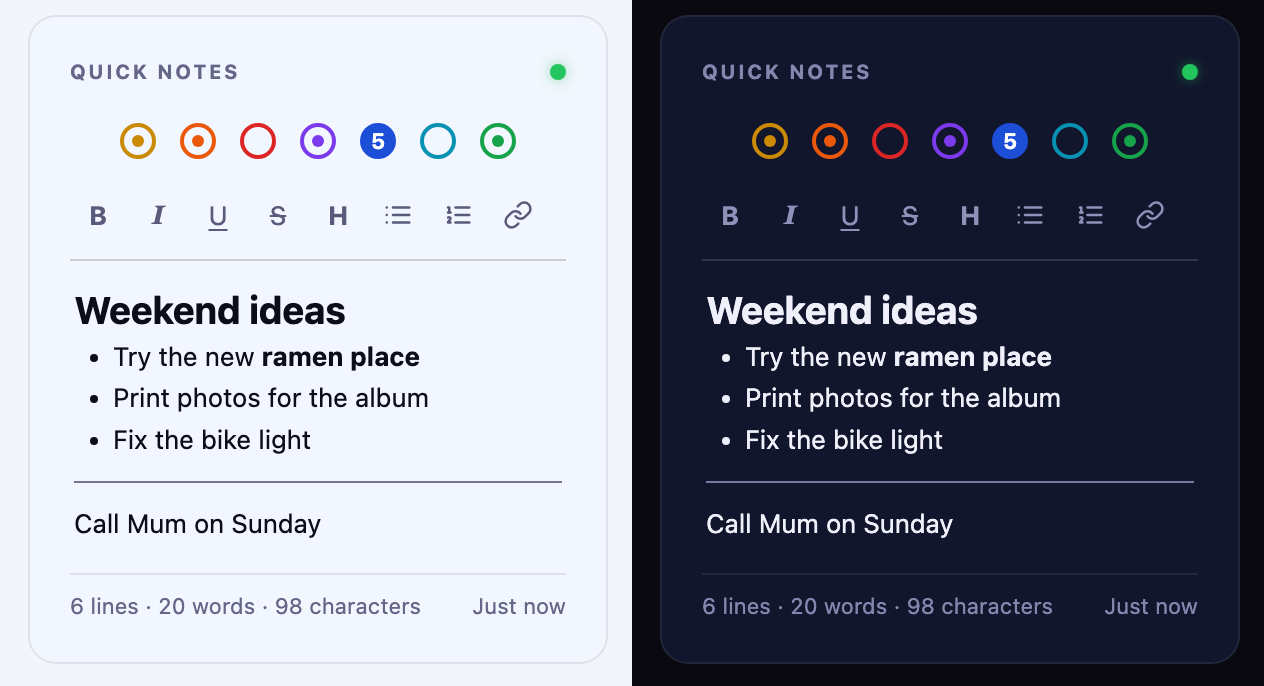
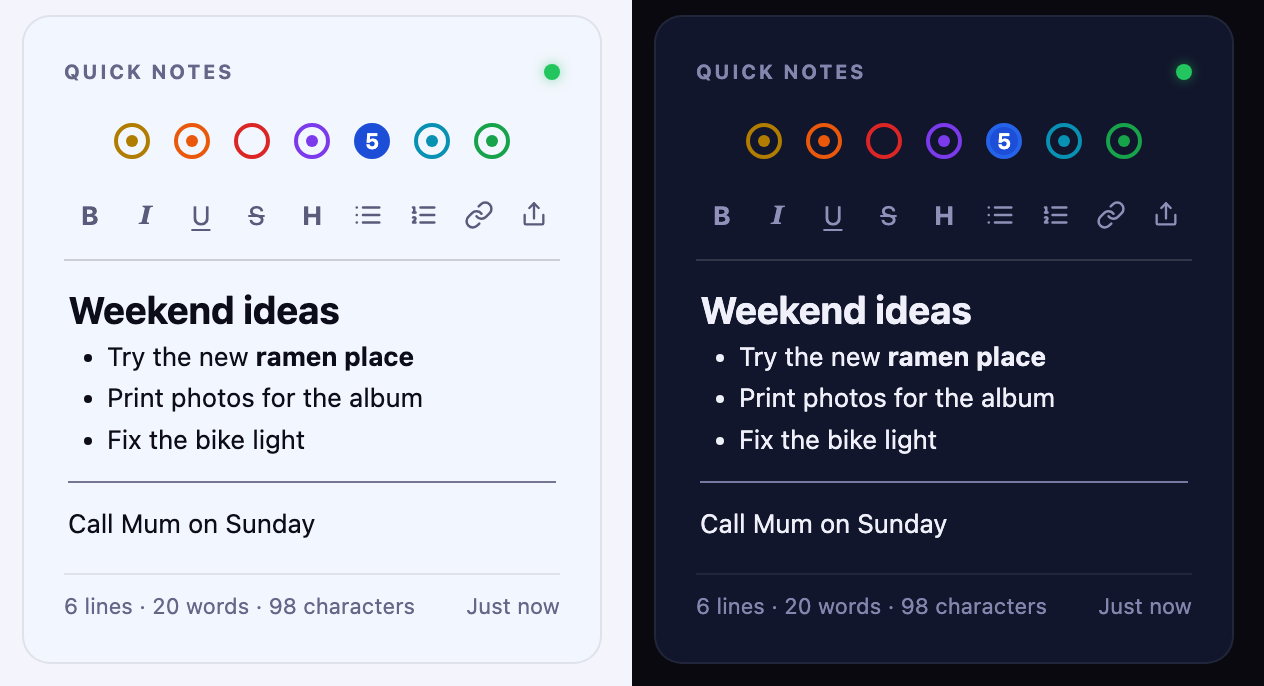
README: refresh text and retake screenshots showing the newer features
The screenshots now show the fold buttons, the On this day card and the
quick notes export button. The image of the day is unchanged.

diff --git a/README.md b/README.md
@@ -5,10 +5,11 @@ Genkan (玄関) is the entryway of a Japanese home: the place you step in. This 
 - **Clock, greeting and date**, with 12 or 24 hour time
 - **Search** your whole vault from the homepage (press `/` to focus it)
 - **Favourites**: one-click chips for the notes you open most
-- **Tasks** and **seven quick notes** (like Tot) that sync with the rest of your vault
+- **Tasks** and **seven quick notes** (like Tot): a small rich-text editor, synced with the rest of your vault, with export to a Markdown file
 - **Calendar** that opens (or creates) your daily notes
 - **Web clips** from the Obsidian Web Clipper and your **recent notes**
 - **Quick links** to commands, notes or web pages
+- Cards in the middle column that fold down to their title
 - **On this day**: an optional card with notes from this date a week, a month and a year ago
 - **Ring notes**: an optional card for voice notes from a Pebble Index ring
 - A photo of the day and a daily quote (both optional)
@@ -27,13 +28,15 @@ On a phone it becomes a single column with tasks and the quick notes first:
 
 <img src="docs/screenshots/dashboard-phone.png" alt="Genkan on a phone" width="390">
 
-The quick notes card, in light and dark: seven notes, one per colored dot, with formatting as you type and a footer of counts and the last-saved time.
+The quick notes card, in light and dark: seven notes, one per colored dot, with formatting as you type, an export button at the end of the toolbar, and a footer of counts and the last-saved time.
 
 ![The Genkan quick notes card in the light and dark themes](docs/screenshots/quick-notes.png)
 
-The screenshots use sample data.
+The screenshots use sample data, with the optional Ring notes and On this day cards turned on.
 
 ## Install
+
+Genkan needs Obsidian 1.4.0 or newer.
 
 **With BRAT:** install the BRAT plugin, choose "Add beta plugin", and enter `kenroy/genkan`.
 
@@ -133,7 +136,7 @@ python3 build.py
 - `src/base.css` and `styles.extra.css`: the styles. `build.py` scopes `src/base.css` under `.hp-root`, adds `styles.extra.css`, and writes `styles.css`
 - `main.js` and `styles.css` are generated; edit the sources above instead
 
-To release, set `version` in `manifest.json` (and add it to `versions.json`), run the build, commit and push, then push a tag that matches the version exactly (for example `git tag 0.1.5 && git push origin 0.1.5`, with no "v"). The `Release` workflow in `.github/workflows/` rebuilds `main.js` and `styles.css`, checks they match what is committed, attests their provenance, and publishes the release with `main.js`, `manifest.json` and `styles.css` attached. To verify a downloaded file: `gh attestation verify main.js --repo kenroy/genkan`.
+To release, set `version` in `manifest.json` (and add it to `versions.json`), run the build, commit and push, then push a tag that matches the version exactly (for example `git tag 0.7.1 && git push origin 0.7.1`, with no "v"). The `Release` workflow in `.github/workflows/` rebuilds `main.js` and `styles.css`, checks they match what is committed, attests their provenance, and publishes the release with `main.js`, `manifest.json` and `styles.css` attached. To verify a downloaded file: `gh attestation verify main.js --repo kenroy/genkan`.
 
 ## Credits and licence
 
